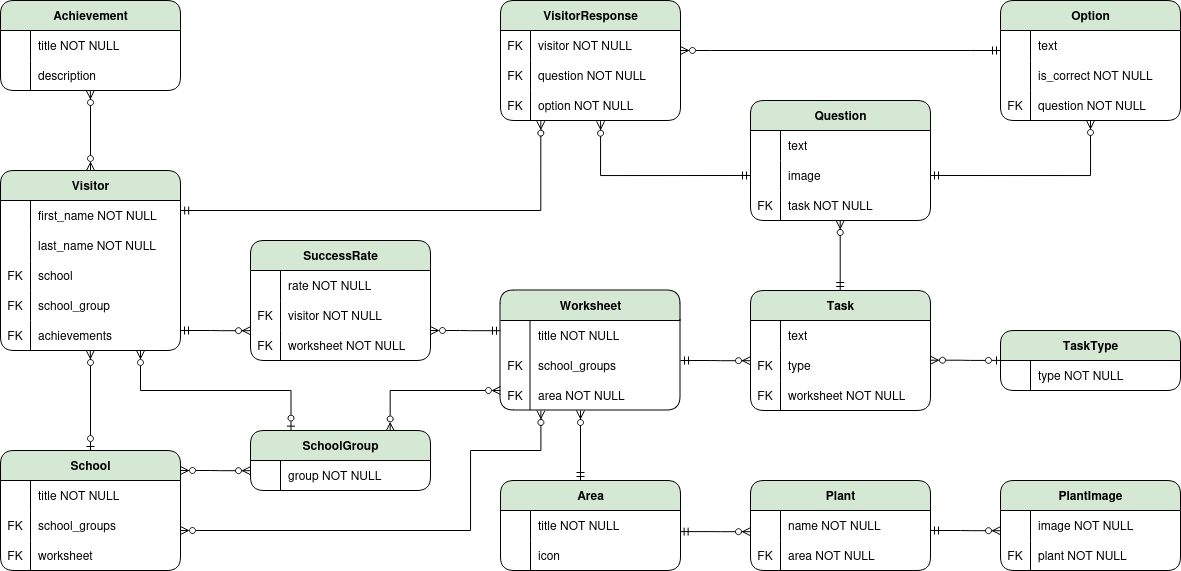
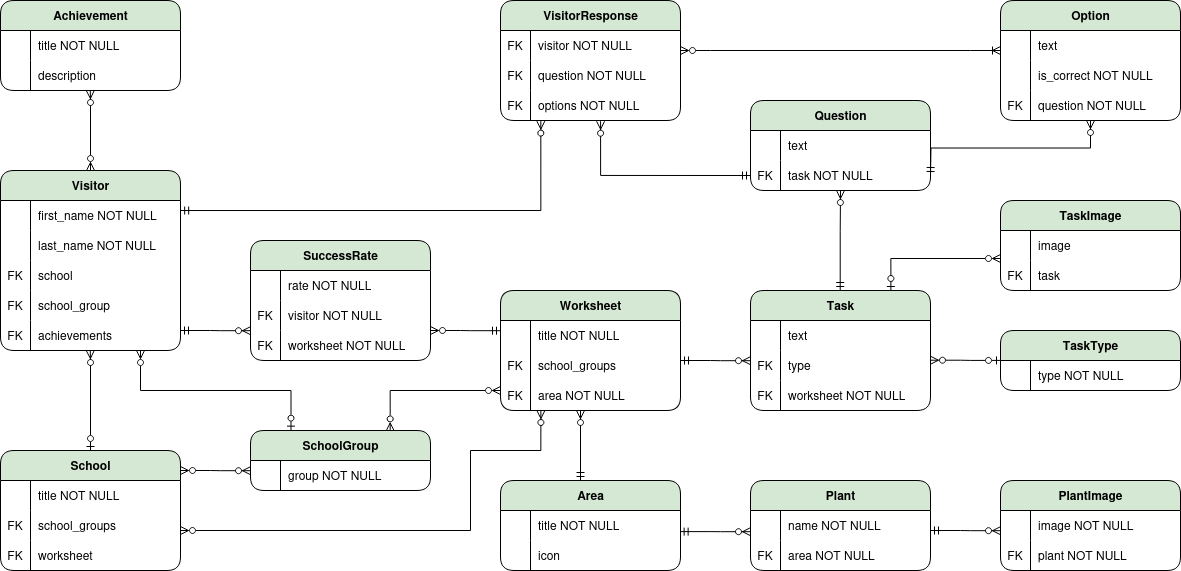
update README.md

diff --git a/worksheets/migrations/0006_remove_task_image_alter_task_text_taskimage.py b/worksheets/migrations/0006_remove_task_image_alter_task_text_taskimage.py
@@ -1,0 +1,31 @@
+# Generated by Django 5.0.9 on 2024-11-17 21:18
+
+import django.db.models.deletion
+from django.db import migrations, models
+
+
+class Migration(migrations.Migration):
+
+    dependencies = [
+        ('worksheets', '0005_remove_question_image_task_image'),
+    ]
+
+    operations = [
+        migrations.RemoveField(
+            model_name='task',
+            name='image',
+        ),
+        migrations.AlterField(
+            model_name='task',
+            name='text',
+            field=models.TextField(),
+        ),
+        migrations.CreateModel(
+            name='TaskImage',
+            fields=[
+                ('id', models.BigAutoField(auto_created=True, primary_key=True, serialize=False, verbose_name='ID')),
+                ('image', models.ImageField(blank=True, null=True, upload_to='question_images/')),
+                ('task', models.ForeignKey(blank=True, null=True, on_delete=django.db.models.deletion.DO_NOTHING, to='worksheets.task')),
+            ],
+        ),
+    ]

diff --git a/worksheets/migrations/0004_rename_school_group_worksheet_school_groups_and_more.py b/worksheets/migrations/0004_rename_school_group_worksheet_school_groups_and_more.py
@@ -1,0 +1,30 @@
+# Generated by Django 5.0.9 on 2024-10-15 13:35
+
+import django.db.models.deletion
+from django.db import migrations, models
+
+
+class Migration(migrations.Migration):
+
+    dependencies = [
+        ('areas', '0002_alter_area_icon'),
+        ('worksheets', '0003_remove_task_type_task_type'),
+    ]
+
+    operations = [
+        migrations.RenameField(
+            model_name='worksheet',
+            old_name='school_group',
+            new_name='school_groups',
+        ),
+        migrations.AlterField(
+            model_name='option',
+            name='text',
+            field=models.CharField(blank=True, null=True),
+        ),
+        migrations.AlterField(
+            model_name='worksheet',
+            name='area',
+            field=models.ForeignKey(on_delete=django.db.models.deletion.CASCADE, to='areas.area'),
+        ),
+    ]

diff --git a/worksheets/serializers.py b/worksheets/serializers.py
@@ -1,7 +1,7 @@
 from rest_framework import serializers
 from .models import Worksheet, Task, Question, Option, TaskImage, TaskType
 
-from random import shuffle
+from random import Random, shuffle
 
 
 class WorksheetsSerializer(serializers.ModelSerializer):
@@ -43,7 +43,9 @@ class QuestionSerializer(serializers.ModelSerializer):
             representation['options'] = new_options
 
         if task and task.type == TaskType.objects.get(type=TaskType.Type.PAIRS):
-            shuffle(representation['options'])
+            seed = hash(task.id)  # generate seed based on task id
+            random_instance = Random(seed)
+            random_instance.shuffle(representation['options'])
 
         return representation
 

diff --git a/visitors/migrations/0003_rename_school_group_school_school_groups_and_more.py b/visitors/migrations/0003_rename_school_group_school_school_groups_and_more.py
@@ -1,0 +1,23 @@
+# Generated by Django 5.0.9 on 2024-10-15 13:35
+
+from django.db import migrations, models
+
+
+class Migration(migrations.Migration):
+
+    dependencies = [
+        ('visitors', '0002_alter_schoolgroup_group'),
+    ]
+
+    operations = [
+        migrations.RenameField(
+            model_name='school',
+            old_name='school_group',
+            new_name='school_groups',
+        ),
+        migrations.AlterField(
+            model_name='achievement',
+            name='description',
+            field=models.TextField(blank=True, null=True),
+        ),
+    ]

diff --git a/worksheets/migrations/0005_remove_question_image_task_image.py b/worksheets/migrations/0005_remove_question_image_task_image.py
@@ -1,0 +1,22 @@
+# Generated by Django 5.0.9 on 2024-10-18 20:20
+
+from django.db import migrations, models
+
+
+class Migration(migrations.Migration):
+
+    dependencies = [
+        ('worksheets', '0004_rename_school_group_worksheet_school_groups_and_more'),
+    ]
+
+    operations = [
+        migrations.RemoveField(
+            model_name='question',
+            name='image',
+        ),
+        migrations.AddField(
+            model_name='task',
+            name='image',
+            field=models.ImageField(blank=True, null=True, upload_to='question_images/'),
+        ),
+    ]

diff --git a/worksheets/migrations/0007_alter_taskimage_task.py b/worksheets/migrations/0007_alter_taskimage_task.py
@@ -1,0 +1,19 @@
+# Generated by Django 5.0.9 on 2024-11-17 21:42
+
+import django.db.models.deletion
+from django.db import migrations, models
+
+
+class Migration(migrations.Migration):
+
+    dependencies = [
+        ('worksheets', '0006_remove_task_image_alter_task_text_taskimage'),
+    ]
+
+    operations = [
+        migrations.AlterField(
+            model_name='taskimage',
+            name='task',
+            field=models.ForeignKey(blank=True, null=True, on_delete=django.db.models.deletion.SET_NULL, to='worksheets.task'),
+        ),
+    ]

diff --git a/README.md b/README.md
@@ -15,6 +15,30 @@ ERD diagram ukazuje vztahy mezi entitami v databázi, jako jsou pracovní listy,
 ![ERD Diagram](diagrams/erd_diagram.png?raw=true )
 
 
+### Diagram komponent
+Tento diagram znázorňuje architekturu systému PlantPuzzle a propojení mezi jeho hlavními komponentami. Webová aplikace se skládá ze dvou základních komponent: GUI (Frontend) a Backend. Backend poskytuje rozhraní pro GUI a poskytuje ji data. Backend dále komunikuje s Mobilní aplikací prostřednictvím rozhraní, což umožňuje synchronizaci dat. Pro komunikaci používá REST API.
+
+![Diagram Komponent](diagrams/component.png?raw=true )
+
+
+### Diagram aktivit
+
+
+![Diagram Aktivit](diagrams/activity.png?raw=true )
+
+
+### Diagram nasazení
+Diagram nasazení znázorňuje fyzickou infrastrukturu systému PlantPuzzle, který se skládá z několika klíčových komponent. Na serveru v dockeru poběží několik kontejnerů. Jeden z nich je databáze, která uchovává všechna data a poskytuje je mobilní a webové aplikaci. Další kontejner je API server, který zajišťuje komunikaci mezi databází a mobilní aplikací pomocí REST API, a další kontejner je samotná webová aplikace pro správu pracovních listů, škol a návštěvníků. Mobilní aplikace, dostupná pro zařízení s Androidem a iOS, komunikuje s API serverem přes zabezpečené REST API a poskytuje uživatelům přístup k pracovním listům. Tento diagram přehledně ukazuje, jak jednotlivé komponenty spolupracují a kde jsou nasazeny.
+
+![Diagram Nasazení](diagrams/deployment.png?raw=true )
+
+
+### Diagram balíčků
+Diagram balíčků znázorňuje strukturu aplikace PlantPuzzle a rozdělení jednotlivých funkcionalit mezi tři klíčové vrstvy: webovou aplikaci, Django backend a mobilní aplikaci. Každá vrstva obsahuje moduly Oblasti, Pracovní listy a Návštěvníci, které mezi sebou komunikují. Django backend slouží jako prostředník mezi webovou a mobilní aplikací a poskytuje REST API pro přístup k datům. Django backend má přístup k databázi a spravuje data pro webovou aplikaci a mobilní aplikaci. Moduly jsou na sobě závislé. Oblasti se starají o jednotlivé oblasti a jejich rostliny. Modul pracovní listy poskytuje funkcionalitu pro tvorbu a spravování pracovních listů. Pracovní listy spadají pod oblasti. Modul návštěvníci spravuje školy a uživatele mobilní aplikace. Také spravuje informace o výsledcích pracovních listů pro jednotlivé uživatele.
+
+![Diagram Balíček](diagrams/package.png?raw=true )
+
+
 ### Náhledy z aplikace
 
 - **Webové rozhraní**: Seznam oblastí a tvorba nových pracovních listů.
